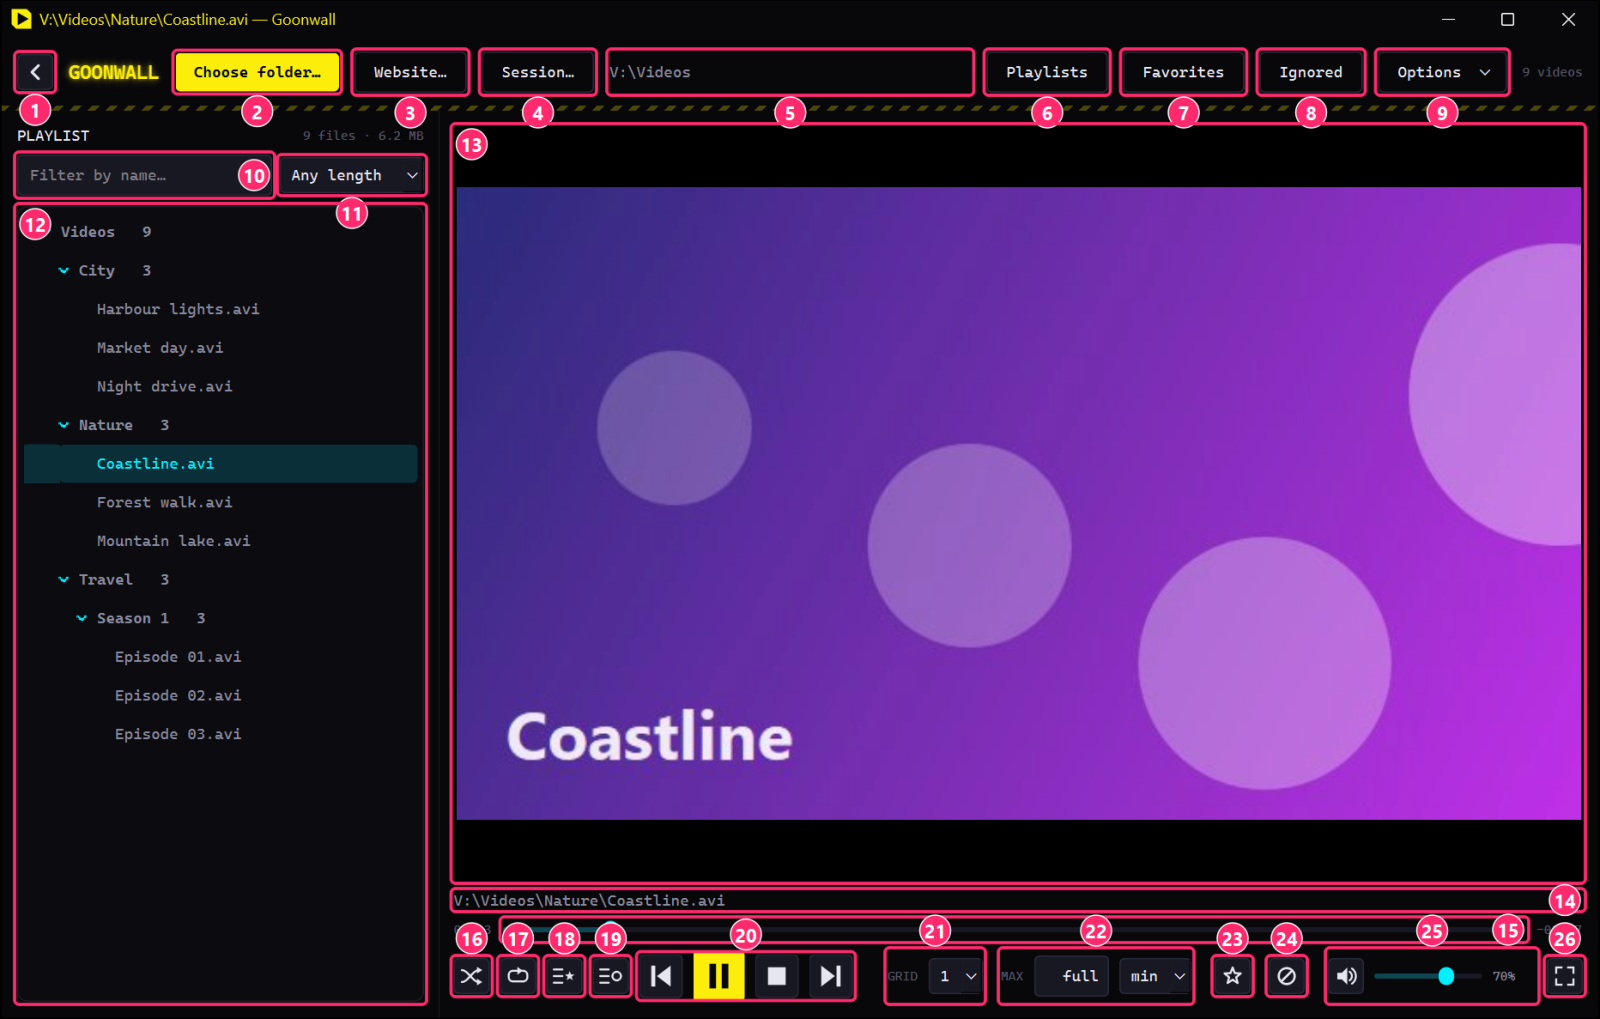
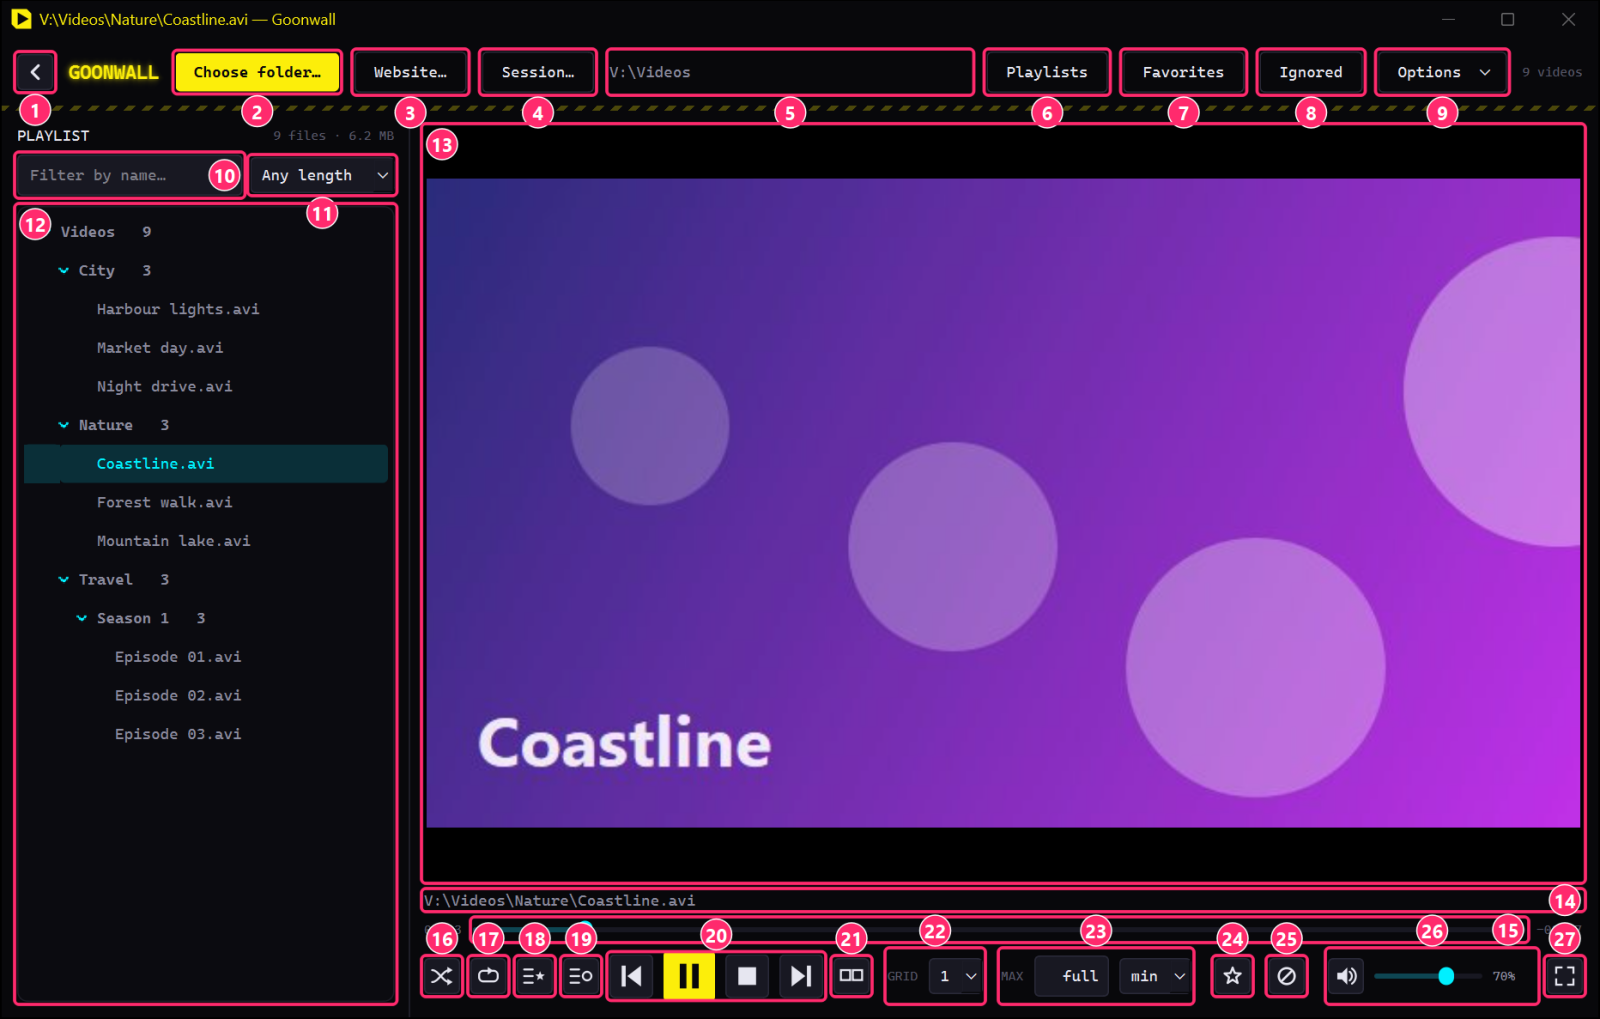
README and screenshots from v1.1.1

diff --git a/README.md b/README.md
@@ -80,12 +80,13 @@ Want a different folder right away? Drag it onto `Goonwall.exe`.
 | 18 | **Favorites only** | Plays only the videos you kept out of whatever is loaded. The rest stay in the list and come back when you switch it off. See [Favorites](#favorites). |
 | 19 | **Unseen only** | Plays only the videos that have never played before (`U`). See [Unseen only](#unseen-only). |
 | 20 | **Previous · Play/Pause · Stop · Next** | `P`, `Space`, –, `N`. With several videos on screen, Play/Pause and Stop hit all of them. |
-| 21 | **GRID** | How many play at once, 1 to 9 (keys `1`–`9`). See [Several videos at once](#several-videos-at-once). |
-| 22 | **MAX** | Cap per video, in seconds or minutes. `full` plays each one to the end. See [Max play time](#max-play-time). |
-| 23 | **Favorite** | Keeps this video (`B`). The star is filled while what's on screen is one of them. See [Favorites](#favorites). |
-| 24 | **Ignore** | Takes this video out of the playlist and keeps it out of future scans (`X`). Nothing is deleted from disk. `Ctrl+Z` undoes the last one. |
-| 25 | **Mute · Volume** | `M` mutes. Moving the slider up from 0 unmutes. |
-| 26 | **Fullscreen** | `F` or `F11`. `Esc` gets you out. |
+| 21 | **All monitors** | A grid of videos on every monitor (`A`). With a second monitor connected, **GRID** then sets the clicked monitor's count. See [Every monitor at once](#every-monitor-at-once). |
+| 22 | **GRID** | How many play at once, 1 to 9 (keys `1`–`9`). See [Several videos at once](#several-videos-at-once). |
+| 23 | **MAX** | Cap per video, in seconds or minutes. `full` plays each one to the end. See [Max play time](#max-play-time). |
+| 24 | **Favorite** | Keeps this video (`B`). The star is filled while what's on screen is one of them. See [Favorites](#favorites). |
+| 25 | **Ignore** | Takes this video out of the playlist and keeps it out of future scans (`X`). Nothing is deleted from disk. `Ctrl+Z` undoes the last one. |
+| 26 | **Mute · Volume** | `M` mutes. Moving the slider up from 0 unmutes. |
+| 27 | **Fullscreen** | `F` or `F11`. `Esc` gets you out. |
 
 ### While you wait
 
@@ -276,7 +277,8 @@ were, the window says which monitor they're on. `Esc` brings them back.
 
 ### Every monitor at once
 
-`A` gives every other monitor a grid of videos of its own, fullscreen, and
+`A`, or the all-monitors button in the controls, gives every other monitor
+a grid of videos of its own, fullscreen, and
 keeps the window where it is — or, with the window's own videos fullscreen
 on another monitor, covers the window's monitor too. Each monitor has its
 own number of videos: click a video on one and `1`…`9` (or **GRID**) set
